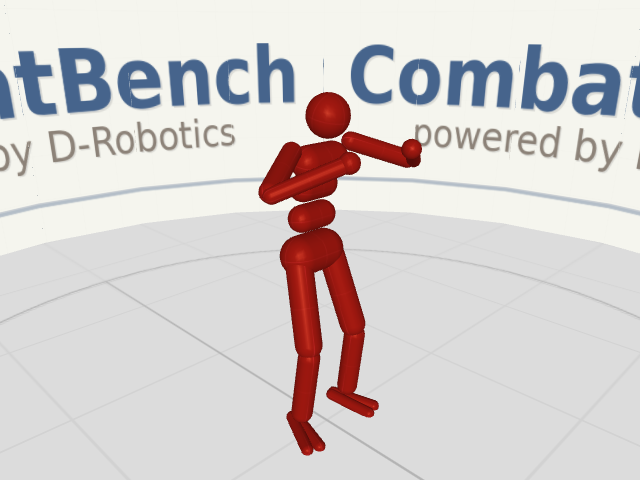
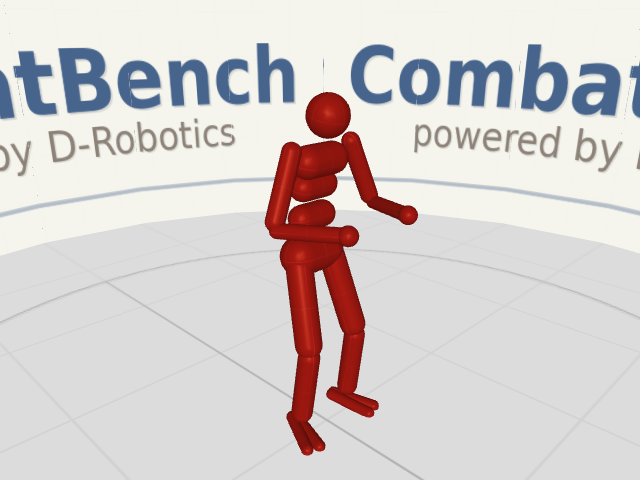
ready 准备姿：手从胸前降到腹部高度
P5 手目标 [0.28,±0.18,1.32] -> [0.28,±0.18,1.05]，重烘焙
_READY_QPOS 手臂段；重渲 images/ready.png

Generated with [Devin](https://devin.ai)

Changed region(s): [[0.4062, 0.2812, 0.6562, 0.5312]]

diff --git a/point5/humanoid21/robot_state.py b/point5/humanoid21/robot_state.py
@@ -466,7 +466,7 @@ class RobotState(Pose):
     def ready(cls) -> "RobotState":
         """运动准备姿——standard("ready")。
 
-        双腿张开、膝微屈、手臂胸前屈收；P5 意图经
+        双腿张开、膝微屈、手臂腹部屈收；P5 意图经
         infer_from_p5 反解后烘焙常量（带前倾 bias——
         对本姿态语义无害）。
         """
@@ -806,17 +806,17 @@ class RobotState(Pose):
 
 
 # ---------------- 标准姿态烘焙常量 ----------------
-# ready 运动准备姿：P5 意图（踝 ±0.15 m 张宽、双手抬至胸前
-# [0.28,±0.18,1.32]、头降 0.03 m）经 Pose.infer_from_p5 反解，
+# ready 运动准备姿：P5 意图（踝 ±0.15 m 张宽、双手收至腹部
+# 高 [0.28,±0.18,1.05]、头降 0.03 m）经 Pose.infer_from_p5 反解，
 # root_z 校准至踝心贴地后烘焙。前倾 ~14° 是反解 v1 已知
 # bias，对"准备"语义无害（渲染验证过：腿张膝屈、手臂
-# 胸前屈收）。
+# 腹部屈收）。
 _READY_QPOS = np.array([
     0.0, -0.3598, 0.0,
     -0.1000, -0.3027, -0.1709, -0.4474, 0.0, 0.0,
     -0.1000, -0.3027, -0.1709, -0.4474, 0.0, 0.0,
-    -0.4494, 0.0296, 0.1852,
-    -0.4494, 0.0296, 0.1852])
+    0.3608, -0.2878, -0.1958,
+    0.3608, -0.2878, -0.1958])
 _READY_ROOT_POS = np.array([-0.0455, 0.0, 1.2500])
 _READY_ROOT_ORI = np.array([0.2419, 0.0, 0.0])
 
